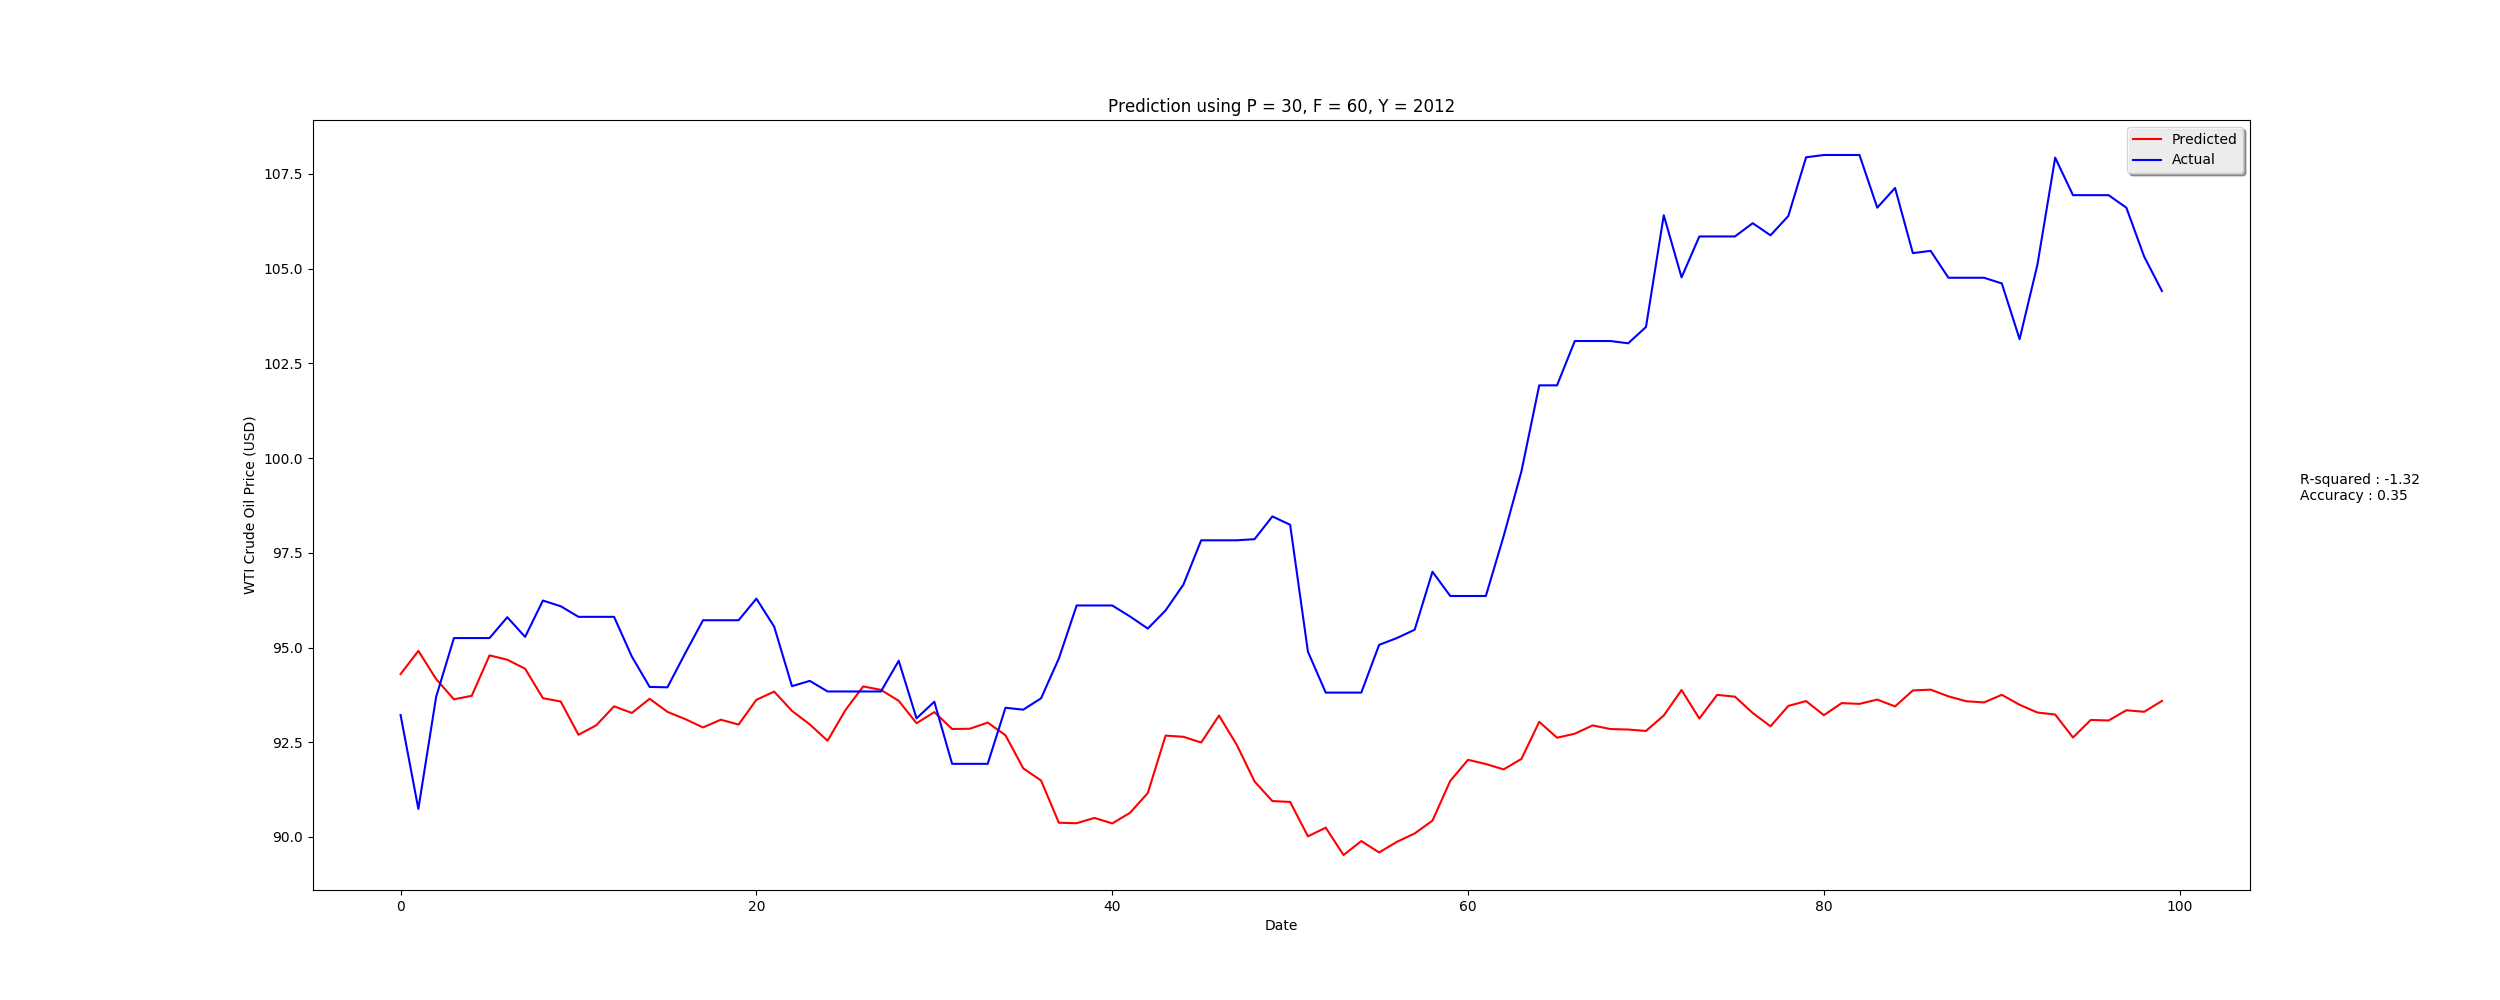
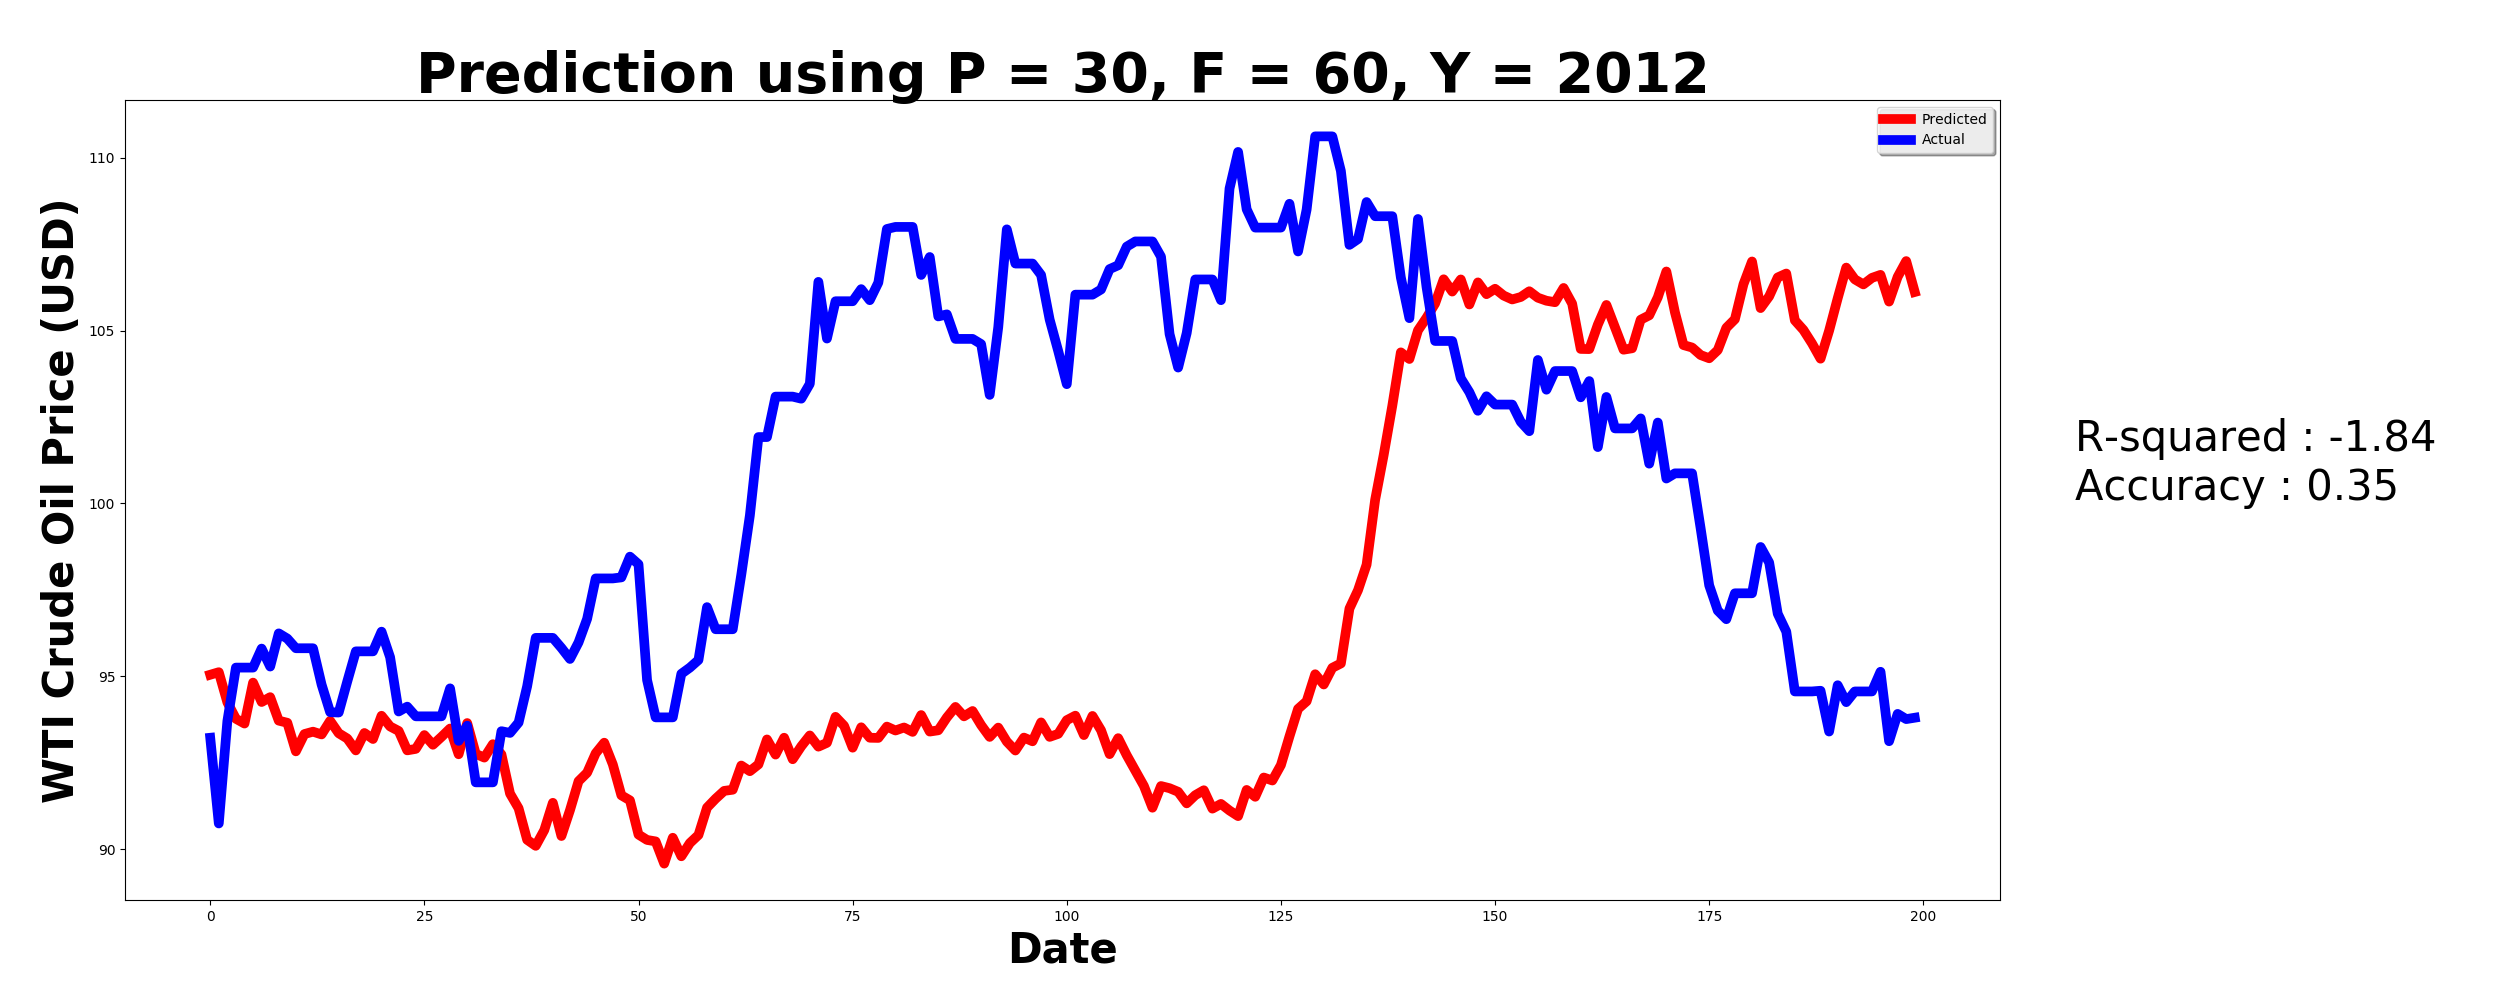
Adding most of the graphs for p=30

diff --git a/pythonRandomForest/call_ml.py b/pythonRandomForest/call_ml.py
@@ -8,7 +8,7 @@ from common import date_time_to_str
 from common import get_date_range
 
 ######### DEFINE THE SOLUTION SPACE ############
-MIN_YEAR = 2008
+MIN_YEAR = 2012
 MAX_YEAR = 2017
 ###############################################
 
@@ -27,8 +27,8 @@ def plot_params(params, predicted, actual, r2, acc):
     # pl.show()
 
 def testParams():
-    pValues = [14]        # [5, 7, 14, 30, 60]
-    fValues = [90]        # [1, 7, 14, 30, 60, 90]
+    pValues = [30]        # [5, 7, 14, 30, 60]
+    fValues = [60]        # [1, 7, 14, 30, 60, 90]
     numTestPoints = 200
     trainingDays = 365
     max_day = datetime.date(year = MAX_YEAR, month = 12, day = 31)
